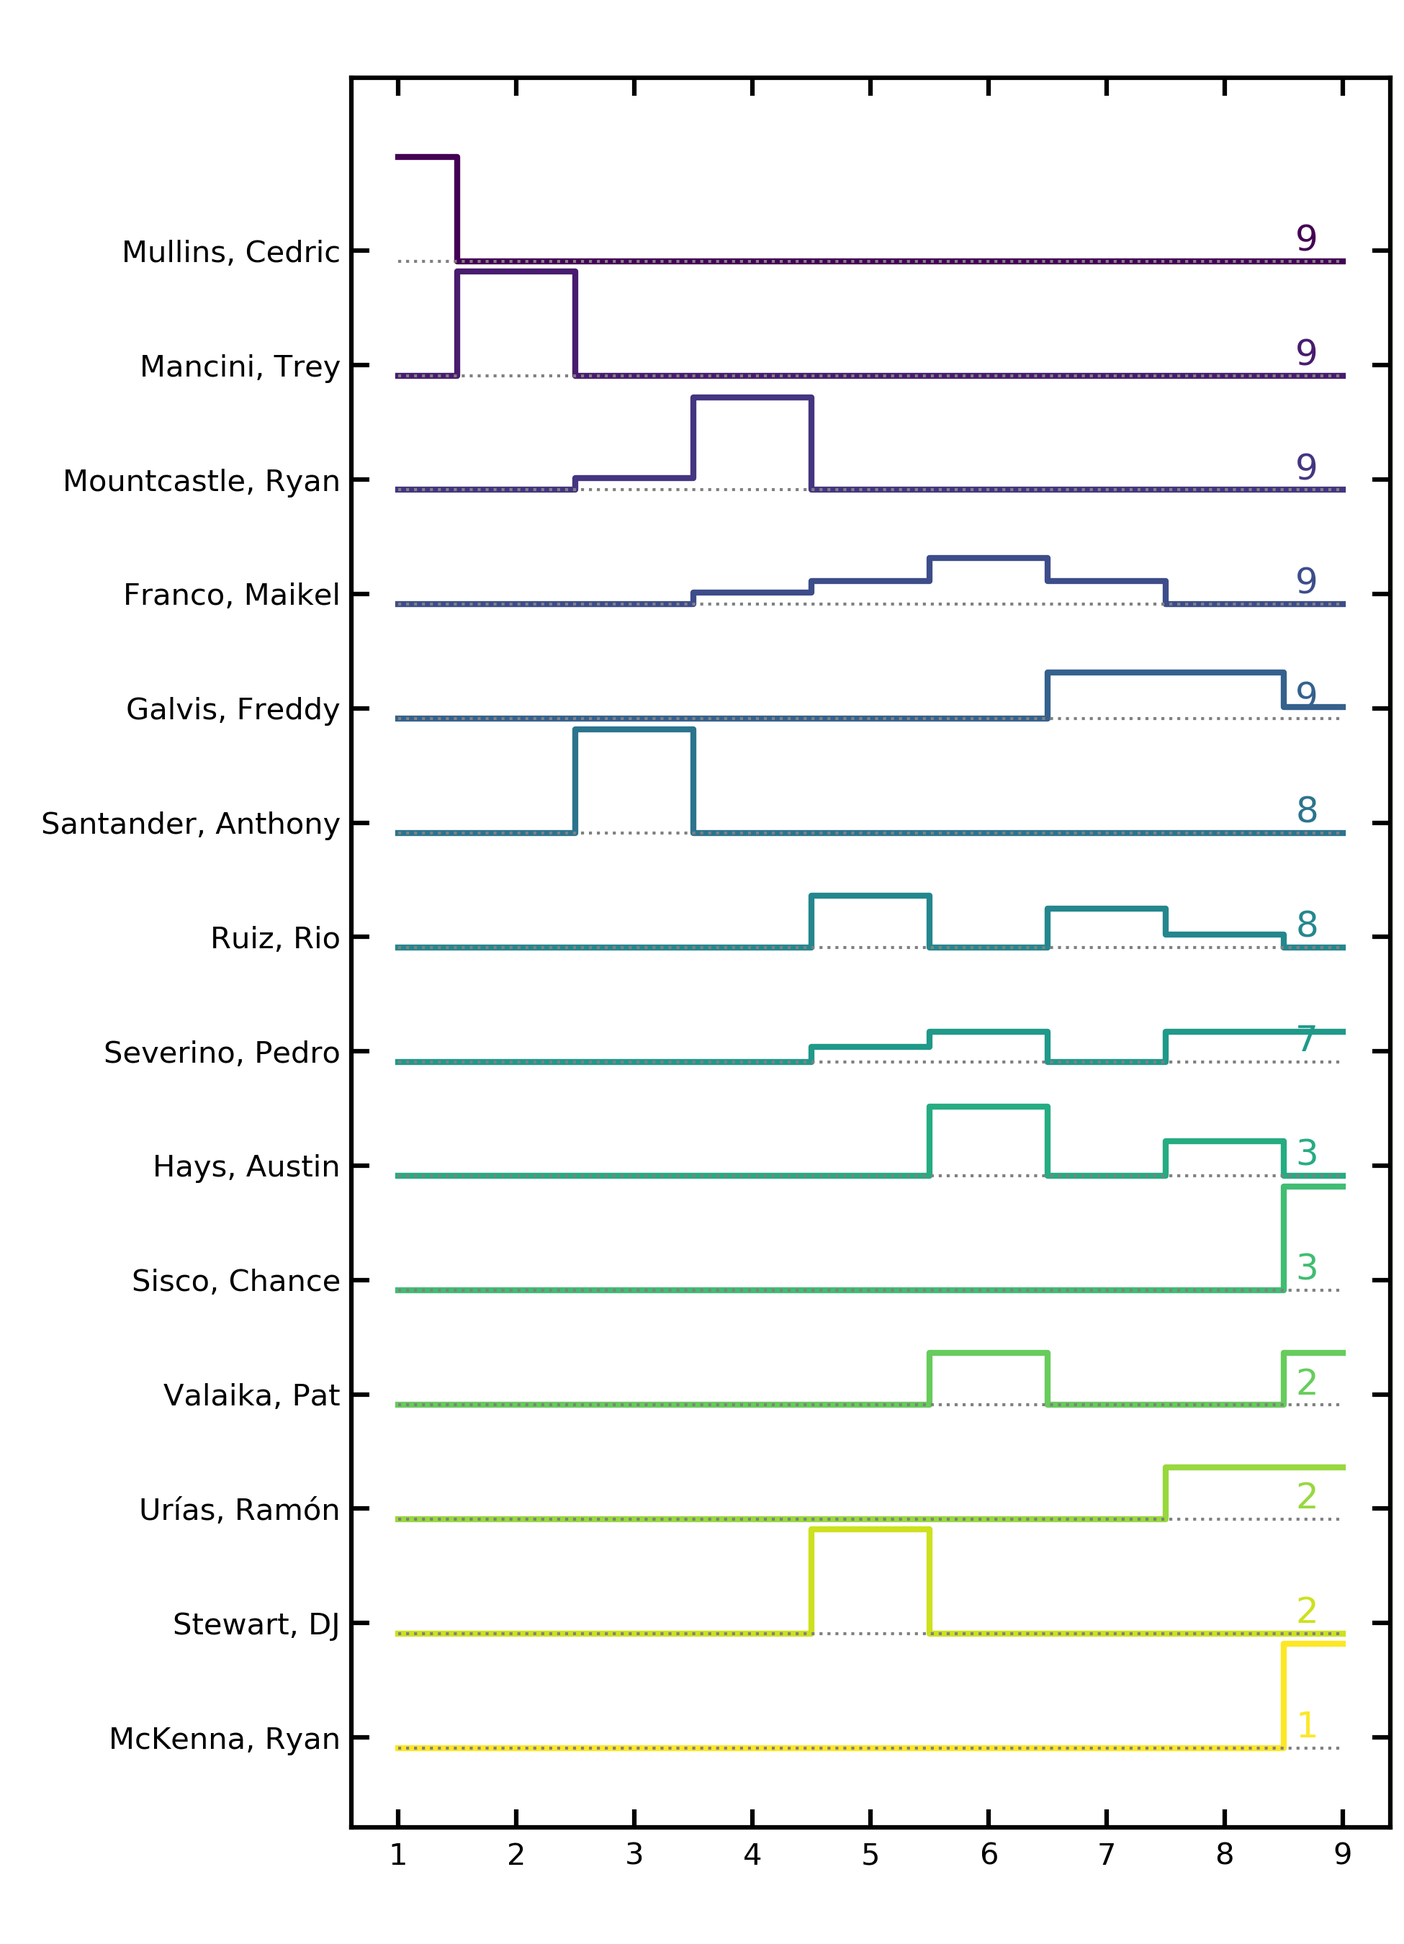
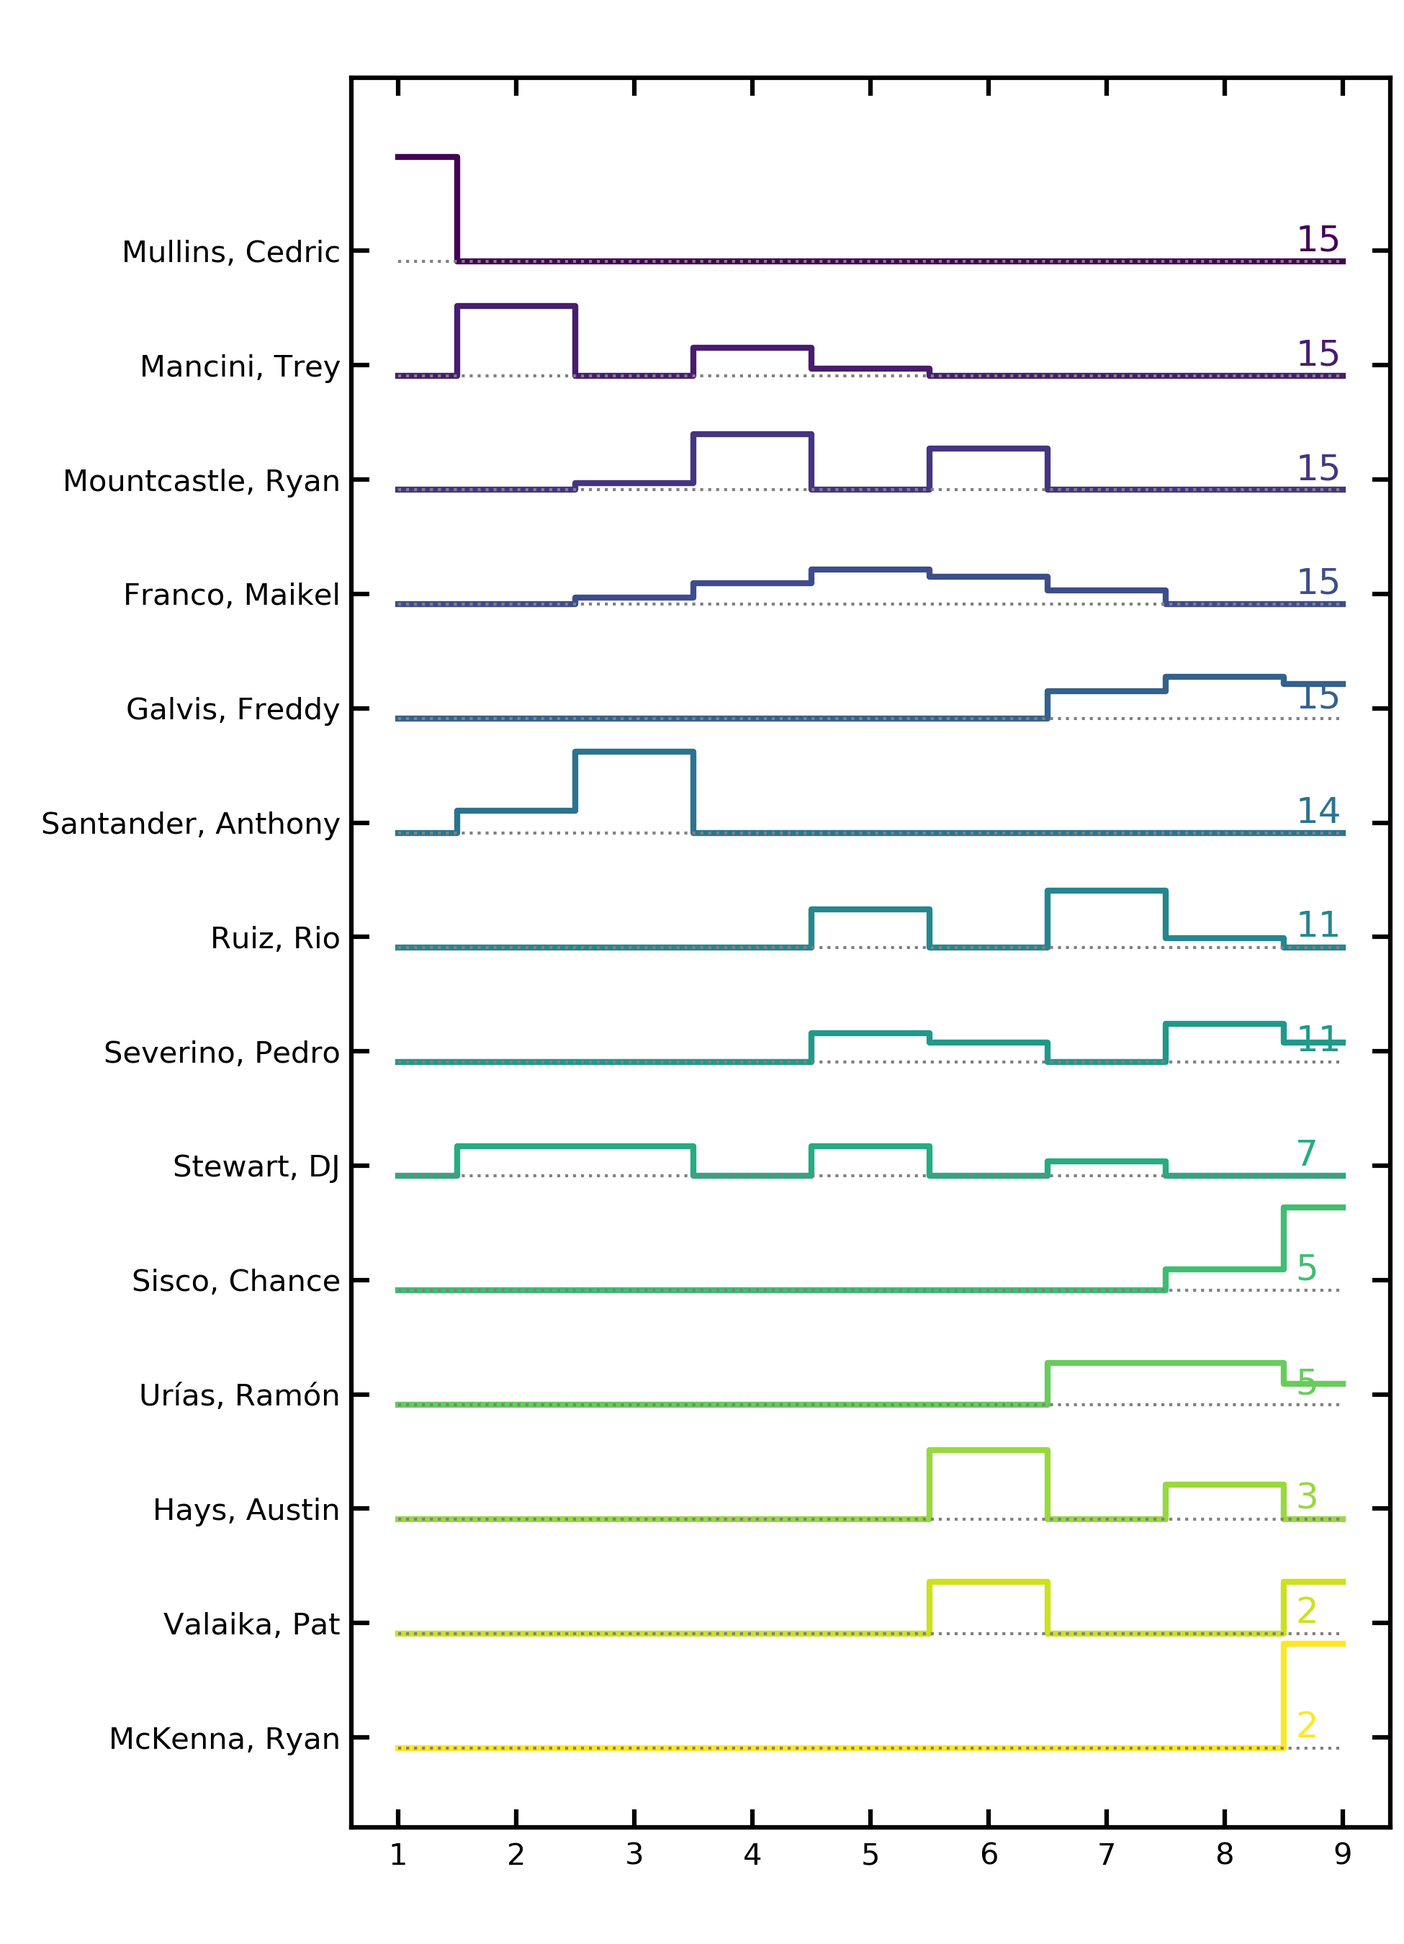
weekly lineup update

diff --git a/Lineups/lineup2021.html b/Lineups/lineup2021.html
@@ -12,36 +12,36 @@
   <p>For each team, what is the "typical" 2021 lineup?</p>
 <table id="customers">
 <tr><th>Team</th><th>1st</th><th>2nd</th><th>3rd</th><th>4th</th><th>5th</th><th>6th</th><th>7th</th><th>8th</th><th>9th</th><th>Similarity</th><th>First Appeared</th></tr>
-<tr><td><a href="figures/2021LAAorder.png">LAA</a></td><td>Fletcher, David</td><td>Ohtani, Shohei</td><td>Trout, Mike</td><td>Rendon, Anthony</td><td>Walsh, Jared</td><td>Upton, Justin</td><td>Iglesias, José</td><td>Suzuki, Kurt</td><td>Fowler, Dexter</td><td>5.15</td><td>3</td></tr>
-<tr><td><a href="figures/2021HOUorder.png">HOU</a></td><td>Altuve, Jose</td><td>Brantley, Michael</td><td>Bregman, Alex</td><td>Alvarez, Yordan</td><td>Correa, Carlos</td><td>Gurriel, Yuli</td><td>Tucker, Kyle</td><td>Straw, Myles</td><td>Maldonado, Martín</td><td>4.8</td><td>10</td></tr>
-<tr><td><a href="figures/2021OAKorder.png">OAK</a></td><td>Canha, Mark</td><td>Laureano, Ramón</td><td>Lowrie, Jed</td><td>Olson, Matt</td><td>Chapman, Matt</td><td>Piscotty, Stephen</td><td>Brown, Seth</td><td>Andrus, Elvis</td><td>Garcia, Aramis</td><td>2.91</td><td>9</td></tr>
-<tr><td><a href="figures/2021TORorder.png">TOR</a></td><td>Semien, Marcus</td><td>Biggio, Cavan</td><td>Bichette, Bo</td><td>Hernández, Teoscar</td><td>Guerrero Jr., Vladimir</td><td>Gurriel Jr., Lourdes</td><td>Tellez, Rowdy</td><td>Grichuk, Randal</td><td>Jansen, Danny</td><td>4.6</td><td>1</td></tr>
-<tr><td><a href="figures/2021ATLorder.png">ATL</a></td><td>Acuña Jr., Ronald</td><td>Albies, Ozzie</td><td>Freeman, Freddie</td><td>Ozuna, Marcell</td><td>d'Arnaud, Travis</td><td>Swanson, Dansby</td><td>Riley, Austin</td><td>Pache, Cristian</td><td>Anderson, Ian</td><td>5.7</td><td>3</td></tr>
-<tr><td><a href="figures/2021MILorder.png">MIL</a></td><td>Wong, Kolten</td><td>Hiura, Keston</td><td>Yelich, Christian</td><td>García, Avisaíl</td><td>Bradley Jr., Jackie</td><td>Urías, Luis</td><td>Narváez, Omar</td><td>Arcia, Orlando</td><td>Anderson, Brett</td><td>2.85</td><td>4</td></tr>
-<tr><td><a href="figures/2021STLorder.png">STL</a></td><td>Edman, Tommy</td><td>Goldschmidt, Paul</td><td>Arenado, Nolan</td><td>DeJong, Paul</td><td>O'Neill, Tyler</td><td>Molina, Yadier</td><td>Carlson, Dylan</td><td>Williams, Justin</td><td>Flaherty, Jack</td><td>4.3</td><td>1</td></tr>
-<tr><td><a href="figures/2021CHCorder.png">CHC</a></td><td>Happ, Ian</td><td>Contreras, Willson</td><td>Rizzo, Anthony</td><td>Bryant, Kris</td><td>Pederson, Joc</td><td>Báez, Javier</td><td>Heyward, Jason</td><td>Bote, David</td><td>Hendricks, Kyle</td><td>5.1</td><td>1</td></tr>
-<tr><td><a href="figures/2021ARIorder.png">ARI</a></td><td>Rojas, Josh</td><td>Marte, Ketel</td><td>Walker, Christian</td><td>Peralta, David</td><td>Cabrera, Asdrúbal</td><td>Escobar, Eduardo</td><td>Smith, Pavin</td><td>Vogt, Stephen</td><td>Bumgarner, Madison</td><td>3.45</td><td>1</td></tr>
-<tr><td><a href="figures/2021LADorder.png">LAD</a></td><td>Betts, Mookie</td><td>Seager, Corey</td><td>Turner, Justin</td><td>Bellinger, Cody</td><td>Muncy, Max</td><td>Taylor, Chris</td><td>Lux, Gavin</td><td>Barnes, Austin</td><td>Kershaw, Clayton</td><td>2.6</td><td>1</td></tr>
-<tr><td><a href="figures/2021SForder.png">SF</a></td><td>Slater, Austin</td><td>Yastrzemski, Mike</td><td>Solano, Donovan</td><td>Longoria, Evan</td><td>Ruf, Darin</td><td>Flores, Wilmer</td><td>Posey, Buster</td><td>Crawford, Brandon</td><td>Dubón, Mauricio</td><td>2.3</td><td>2</td></tr>
-<tr><td><a href="figures/2021CLEorder.png">CLE</a></td><td>Luplow, Jordan</td><td>Hernandez, Cesar</td><td>Ramírez, José</td><td>Rosario, Eddie</td><td>Reyes, Franmil</td><td>Naylor, Josh</td><td>Chang, Yu</td><td>Pérez, Roberto</td><td>Giménez, Andrés</td><td>5.11</td><td>1</td></tr>
-<tr><td><a href="figures/2021SEAorder.png">SEA</a></td><td>Haniger, Mitch</td><td>France, Ty</td><td>Seager, Kyle</td><td>White, Evan</td><td>Trammell, Taylor</td><td>Moore, Dylan</td><td>Fraley, Jake</td><td>Torrens, Luis</td><td>Crawford, J.P.</td><td>4.78</td><td>2</td></tr>
-<tr><td><a href="figures/2021MIAorder.png">MIA</a></td><td>Dickerson, Corey</td><td>Marte, Starling</td><td>Aguilar, Jesús</td><td>Cooper, Garrett</td><td>Anderson, Brian</td><td>Chisholm Jr., Jazz</td><td>Berti, Jon</td><td>Wallach, Chad</td><td>López, Pablo</td><td>3.22</td><td>6</td></tr>
-<tr><td><a href="figures/2021NYMorder.png">NYM</a></td><td>Nimmo, Brandon</td><td>Lindor, Francisco</td><td>Conforto, Michael</td><td>Alonso, Pete</td><td>Smith, Dominic</td><td>Villar, Jonathan</td><td>McNeil, Jeff</td><td>McCann, James</td><td>Walker, Taijuan</td><td>4.2</td><td>4</td></tr>
-<tr><td><a href="figures/2021WSHorder.png">WSH</a></td><td>Robles, Victor</td><td>Turner, Trea</td><td>Soto, Juan</td><td>Zimmerman, Ryan</td><td>Castro, Starlin</td><td>Pérez, Hernán</td><td>Stevenson, Andrew</td><td>Lucroy, Jonathan</td><td>Scherzer, Max</td><td>3.86</td><td>1</td></tr>
-<tr><td><a href="figures/2021BALorder.png">BAL</a></td><td>Mullins, Cedric</td><td>Mancini, Trey</td><td>Santander, Anthony</td><td>Mountcastle, Ryan</td><td>Ruiz, Rio</td><td>Franco, Maikel</td><td>Galvis, Freddy</td><td>Severino, Pedro</td><td>Sisco, Chance</td><td>4.33</td><td>5</td></tr>
-<tr><td><a href="figures/2021SDorder.png">SD</a></td><td>Grisham, Trent</td><td>Profar, Jurickson</td><td>Machado, Manny</td><td>Hosmer, Eric</td><td>Myers, Wil</td><td>Cronenworth, Jake</td><td>Pham, Tommy</td><td>Caratini, Victor</td><td>Kim, Ha-Seong</td><td>3.0</td><td>10</td></tr>
-<tr><td><a href="figures/2021PHIorder.png">PHI</a></td><td>McCutchen, Andrew</td><td>Hoskins, Rhys</td><td>Harper, Bryce</td><td>Realmuto, J.T.</td><td>Bohm, Alec</td><td>Gregorius, Didi</td><td>Segura, Jean</td><td>Haseley, Adam</td><td>Nola, Aaron</td><td>4.89</td><td>1</td></tr>
-<tr><td><a href="figures/2021PITorder.png">PIT</a></td><td>Frazier, Adam</td><td>Evans, Phillip</td><td>Reynolds, Bryan</td><td>Moran, Colin</td><td>González, Erik</td><td>Polanco, Gregory</td><td>Stallings, Jacob</td><td>Fowler, Dustin</td><td>Brubaker, JT</td><td>4.3</td><td>4</td></tr>
-<tr><td><a href="figures/2021TEXorder.png">TEX</a></td><td>Kiner-Falefa, Isiah</td><td>Dahl, David</td><td>Gallo, Joey</td><td>Lowe, Nate</td><td>Solak, Nick</td><td>Guzmán, Ronald</td><td>Holt, Brock</td><td>Heim, Jonah</td><td>Taveras, Leody</td><td>3.8</td><td>3</td></tr>
-<tr><td><a href="figures/2021TBorder.png">TB</a></td><td>Tsutsugo, Yoshi</td><td>Meadows, Austin</td><td>Arozarena, Randy</td><td>Lowe, Brandon</td><td>Díaz, Yandy</td><td>Wendle, Joey</td><td>Adames, Willy</td><td>Phillips, Brett</td><td>Zunino, Mike</td><td>3.45</td><td>7</td></tr>
-<tr><td><a href="figures/2021BOSorder.png">BOS</a></td><td>Hernández, Enrique</td><td>Verdugo, Alex</td><td>Martinez, J.D.</td><td>Bogaerts, Xander</td><td>Devers, Rafael</td><td>Vázquez, Christian</td><td>Gonzalez, Marwin</td><td>Dalbec, Bobby</td><td>Cordero, Franchy</td><td>3.78</td><td>9</td></tr>
-<tr><td><a href="figures/2021CINorder.png">CIN</a></td><td>Naquin, Tyler</td><td>Castellanos, Nick</td><td>Votto, Joey</td><td>Suárez, Eugenio</td><td>Moustakas, Mike</td><td>Senzel, Nick</td><td>India, Jonathan</td><td>Barnhart, Tucker</td><td>De León, José</td><td>5.5</td><td>4</td></tr>
-<tr><td><a href="figures/2021COLorder.png">COL</a></td><td>Tapia, Raimel</td><td>Hampson, Garrett</td><td>Story, Trevor</td><td>Blackmon, Charlie</td><td>Cron, C.J.</td><td>McMahon, Ryan</td><td>Hilliard, Sam</td><td>Nuñez, Dom</td><td>Márquez, Germán</td><td>3.45</td><td>5</td></tr>
-<tr><td><a href="figures/2021KCorder.png">KC</a></td><td>Merrifield, Whit</td><td>Benintendi, Andrew</td><td>Santana, Carlos</td><td>Perez, Salvador</td><td>Soler, Jorge</td><td>Dozier, Hunter</td><td>Isbel, Kyle</td><td>Taylor, Michael A.</td><td>Lopez, Nicky</td><td>6.0</td><td>1</td></tr>
-<tr><td><a href="figures/2021DETorder.png">DET</a></td><td>Grossman, Robbie</td><td>Candelario, Jeimer</td><td>Castro, Willi</td><td>Cabrera, Miguel</td><td>Schoop, Jonathan</td><td>Mazara, Nomar</td><td>Ramos, Wilson</td><td>Goodrum, Niko</td><td>Jones, JaCoby</td><td>2.0</td><td>2</td></tr>
-<tr><td><a href="figures/2021MINorder.png">MIN</a></td><td>Arraez, Luis</td><td>Polanco, Jorge</td><td>Cruz, Nelson</td><td>Kepler, Max</td><td>Rooker, Brent</td><td>Cave, Jake</td><td>Sanó, Miguel</td><td>Astudillo, Willians</td><td>Jeffers, Ryan</td><td>2.22</td><td>5</td></tr>
-<tr><td><a href="figures/2021CWSorder.png">CWS</a></td><td>Eaton, Adam</td><td>Robert, Luis</td><td>Abreu, José</td><td>Moncada, Yoán</td><td>Mercedes, Yermín</td><td>Grandal, Yasmani</td><td>Williams, Nick</td><td>Madrigal, Nick</td><td>Mendick, Danny</td><td>3.25</td><td>8</td></tr>
-<tr><td><a href="figures/2021NYYorder.png">NYY</a></td><td>LeMahieu, DJ</td><td>Judge, Aaron</td><td>Hicks, Aaron</td><td>Stanton, Giancarlo</td><td>Torres, Gleyber</td><td>Bruce, Jay</td><td>Sánchez, Gary</td><td>Urshela, Gio</td><td>Frazier, Clint</td><td>3.75</td><td>2</td></tr>
+<tr><td><a href="figures/2021LAAorder.png">LAA</a></td><td>Fletcher, David</td><td>Ohtani, Shohei</td><td>Trout, Mike</td><td>Rendon, Anthony</td><td>Walsh, Jared</td><td>Upton, Justin</td><td>Iglesias, José</td><td>Suzuki, Kurt</td><td>Fowler, Dexter</td><td>4.62</td><td>3</td></tr>
+<tr><td><a href="figures/2021HOUorder.png">HOU</a></td><td>Altuve, Jose</td><td>Brantley, Michael</td><td>Bregman, Alex</td><td>Alvarez, Yordan</td><td>Correa, Carlos</td><td>Gurriel, Yuli</td><td>Tucker, Kyle</td><td>Straw, Myles</td><td>Maldonado, Martín</td><td>3.54</td><td>10</td></tr>
+<tr><td><a href="figures/2021OAKorder.png">OAK</a></td><td>Canha, Mark</td><td>Laureano, Ramón</td><td>Lowrie, Jed</td><td>Olson, Matt</td><td>Chapman, Matt</td><td>Piscotty, Stephen</td><td>Brown, Seth</td><td>Andrus, Elvis</td><td>Garcia, Aramis</td><td>2.8</td><td>9</td></tr>
+<tr><td><a href="figures/2021TORorder.png">TOR</a></td><td>Semien, Marcus</td><td>Biggio, Cavan</td><td>Bichette, Bo</td><td>Hernández, Teoscar</td><td>Guerrero Jr., Vladimir</td><td>Gurriel Jr., Lourdes</td><td>Tellez, Rowdy</td><td>Grichuk, Randal</td><td>Jansen, Danny</td><td>3.67</td><td>1</td></tr>
+<tr><td><a href="figures/2021ATLorder.png">ATL</a></td><td>Acuña Jr., Ronald</td><td>Albies, Ozzie</td><td>Freeman, Freddie</td><td>Ozuna, Marcell</td><td>d'Arnaud, Travis</td><td>Swanson, Dansby</td><td>Riley, Austin</td><td>Pache, Cristian</td><td>Anderson, Ian</td><td>3.27</td><td>3</td></tr>
+<tr><td><a href="figures/2021MILorder.png">MIL</a></td><td>Wong, Kolten</td><td>Hiura, Keston</td><td>Yelich, Christian</td><td>García, Avisaíl</td><td>Bradley Jr., Jackie</td><td>Urías, Luis</td><td>Narváez, Omar</td><td>Arcia, Orlando</td><td>Anderson, Brett</td><td>2.43</td><td>4</td></tr>
+<tr><td><a href="figures/2021STLorder.png">STL</a></td><td>Edman, Tommy</td><td>Goldschmidt, Paul</td><td>Arenado, Nolan</td><td>DeJong, Paul</td><td>O'Neill, Tyler</td><td>Molina, Yadier</td><td>Carlson, Dylan</td><td>Williams, Justin</td><td>Wainwright, Adam</td><td>4.21</td><td>2</td></tr>
+<tr><td><a href="figures/2021CHCorder.png">CHC</a></td><td>Happ, Ian</td><td>Contreras, Willson</td><td>Rizzo, Anthony</td><td>Bryant, Kris</td><td>Pederson, Joc</td><td>Báez, Javier</td><td>Heyward, Jason</td><td>Bote, David</td><td>Davies, Zach</td><td>5.5</td><td>8</td></tr>
+<tr><td><a href="figures/2021ARIorder.png">ARI</a></td><td>Locastro, Tim</td><td>Calhoun, Kole</td><td>Walker, Christian</td><td>Peralta, David</td><td>Cabrera, Asdrúbal</td><td>Escobar, Eduardo</td><td>Ahmed, Nick</td><td>Vogt, Stephen</td><td>Smith, Riley</td><td>3.0</td><td>9</td></tr>
+<tr><td><a href="figures/2021LADorder.png">LAD</a></td><td>Betts, Mookie</td><td>Seager, Corey</td><td>Turner, Justin</td><td>Bellinger, Cody</td><td>Muncy, Max</td><td>Taylor, Chris</td><td>Lux, Gavin</td><td>Barnes, Austin</td><td>Kershaw, Clayton</td><td>2.8</td><td>1</td></tr>
+<tr><td><a href="figures/2021SForder.png">SF</a></td><td>Slater, Austin</td><td>Yastrzemski, Mike</td><td>Solano, Donovan</td><td>Longoria, Evan</td><td>Ruf, Darin</td><td>Flores, Wilmer</td><td>Posey, Buster</td><td>Crawford, Brandon</td><td>Dubón, Mauricio</td><td>2.32</td><td>2</td></tr>
+<tr><td><a href="figures/2021CLEorder.png">CLE</a></td><td>Luplow, Jordan</td><td>Hernandez, Cesar</td><td>Ramírez, José</td><td>Rosario, Eddie</td><td>Reyes, Franmil</td><td>Naylor, Josh</td><td>Chang, Yu</td><td>Pérez, Roberto</td><td>Giménez, Andrés</td><td>4.89</td><td>1</td></tr>
+<tr><td><a href="figures/2021SEAorder.png">SEA</a></td><td>Haniger, Mitch</td><td>France, Ty</td><td>Seager, Kyle</td><td>White, Evan</td><td>Moore, Dylan</td><td>Murphy, Tom</td><td>Fraley, Jake</td><td>Haggerty, Sam</td><td>Crawford, J.P.</td><td>4.21</td><td>4</td></tr>
+<tr><td><a href="figures/2021MIAorder.png">MIA</a></td><td>Dickerson, Corey</td><td>Marte, Starling</td><td>Aguilar, Jesús</td><td>Cooper, Garrett</td><td>Anderson, Brian</td><td>Chisholm Jr., Jazz</td><td>Rojas, Miguel</td><td>Wallach, Chad</td><td>Rogers, Trevor</td><td>3.93</td><td>8</td></tr>
+<tr><td><a href="figures/2021NYMorder.png">NYM</a></td><td>Nimmo, Brandon</td><td>Lindor, Francisco</td><td>Conforto, Michael</td><td>Alonso, Pete</td><td>Smith, Dominic</td><td>Villar, Jonathan</td><td>McCann, James</td><td>Guillorme, Luis</td><td>Peterson, David</td><td>3.9</td><td>3</td></tr>
+<tr><td><a href="figures/2021WSHorder.png">WSH</a></td><td>Robles, Victor</td><td>Turner, Trea</td><td>Soto, Juan</td><td>Zimmerman, Ryan</td><td>Castro, Starlin</td><td>Pérez, Hernán</td><td>Stevenson, Andrew</td><td>Lucroy, Jonathan</td><td>Scherzer, Max</td><td>2.54</td><td>1</td></tr>
+<tr><td><a href="figures/2021BALorder.png">BAL</a></td><td>Mullins, Cedric</td><td>Mancini, Trey</td><td>Santander, Anthony</td><td>Mountcastle, Ryan</td><td>Stewart, DJ</td><td>Franco, Maikel</td><td>Ruiz, Rio</td><td>Galvis, Freddy</td><td>Sisco, Chance</td><td>3.33</td><td>8</td></tr>
+<tr><td><a href="figures/2021SDorder.png">SD</a></td><td>Grisham, Trent</td><td>Profar, Jurickson</td><td>Machado, Manny</td><td>Hosmer, Eric</td><td>Myers, Wil</td><td>Cronenworth, Jake</td><td>Pham, Tommy</td><td>Caratini, Victor</td><td>Kim, Ha-Seong</td><td>2.53</td><td>10</td></tr>
+<tr><td><a href="figures/2021PHIorder.png">PHI</a></td><td>McCutchen, Andrew</td><td>Hoskins, Rhys</td><td>Harper, Bryce</td><td>Realmuto, J.T.</td><td>Bohm, Alec</td><td>Gregorius, Didi</td><td>Segura, Jean</td><td>Haseley, Adam</td><td>Nola, Aaron</td><td>4.64</td><td>1</td></tr>
+<tr><td><a href="figures/2021PITorder.png">PIT</a></td><td>Frazier, Adam</td><td>Evans, Phillip</td><td>Reynolds, Bryan</td><td>Moran, Colin</td><td>González, Erik</td><td>Polanco, Gregory</td><td>Stallings, Jacob</td><td>Fowler, Dustin</td><td>Brubaker, JT</td><td>4.07</td><td>4</td></tr>
+<tr><td><a href="figures/2021TEXorder.png">TEX</a></td><td>Kiner-Falefa, Isiah</td><td>Dahl, David</td><td>Gallo, Joey</td><td>Solak, Nick</td><td>Lowe, Nate</td><td>Trevino, Jose</td><td>Holt, Brock</td><td>White, Eli</td><td>Culberson, Charlie</td><td>3.4</td><td>4</td></tr>
+<tr><td><a href="figures/2021TBorder.png">TB</a></td><td>Tsutsugo, Yoshi</td><td>Meadows, Austin</td><td>Arozarena, Randy</td><td>Lowe, Brandon</td><td>Díaz, Yandy</td><td>Wendle, Joey</td><td>Adames, Willy</td><td>Phillips, Brett</td><td>Zunino, Mike</td><td>2.33</td><td>7</td></tr>
+<tr><td><a href="figures/2021BOSorder.png">BOS</a></td><td>Hernández, Enrique</td><td>Verdugo, Alex</td><td>Martinez, J.D.</td><td>Bogaerts, Xander</td><td>Devers, Rafael</td><td>Vázquez, Christian</td><td>Gonzalez, Marwin</td><td>Dalbec, Bobby</td><td>Cordero, Franchy</td><td>4.29</td><td>9</td></tr>
+<tr><td><a href="figures/2021CINorder.png">CIN</a></td><td>Winker, Jesse</td><td>Castellanos, Nick</td><td>Votto, Joey</td><td>Suárez, Eugenio</td><td>Moustakas, Mike</td><td>Senzel, Nick</td><td>India, Jonathan</td><td>Barnhart, Tucker</td><td>Castillo, Luis</td><td>5.31</td><td>1</td></tr>
+<tr><td><a href="figures/2021COLorder.png">COL</a></td><td>Hampson, Garrett</td><td>McMahon, Ryan</td><td>Story, Trevor</td><td>Blackmon, Charlie</td><td>Cron, C.J.</td><td>Tapia, Raimel</td><td>Fuentes, Josh</td><td>Nuñez, Dom</td><td>Gomber, Austin</td><td>3.6</td><td>8</td></tr>
+<tr><td><a href="figures/2021KCorder.png">KC</a></td><td>Merrifield, Whit</td><td>Benintendi, Andrew</td><td>Perez, Salvador</td><td>Santana, Carlos</td><td>Soler, Jorge</td><td>Taylor, Michael A.</td><td>Isbel, Kyle</td><td>Alberto, Hanser</td><td>Lopez, Nicky</td><td>5.31</td><td>8</td></tr>
+<tr><td><a href="figures/2021DETorder.png">DET</a></td><td>Grossman, Robbie</td><td>Candelario, Jeimer</td><td>Castro, Willi</td><td>Cabrera, Miguel</td><td>Schoop, Jonathan</td><td>Mazara, Nomar</td><td>Ramos, Wilson</td><td>Goodrum, Niko</td><td>Jones, JaCoby</td><td>2.2</td><td>2</td></tr>
+<tr><td><a href="figures/2021MINorder.png">MIN</a></td><td>Arraez, Luis</td><td>Polanco, Jorge</td><td>Cruz, Nelson</td><td>Kepler, Max</td><td>Astudillo, Willians</td><td>Sanó, Miguel</td><td>Cave, Jake</td><td>Jeffers, Ryan</td><td>Riddle, JT</td><td>2.07</td><td>13</td></tr>
+<tr><td><a href="figures/2021CWSorder.png">CWS</a></td><td>Anderson, Tim</td><td>Eaton, Adam</td><td>Abreu, José</td><td>Moncada, Yoán</td><td>Mercedes, Yermín</td><td>Grandal, Yasmani</td><td>Robert, Luis</td><td>Vaughn, Andrew</td><td>Madrigal, Nick</td><td>3.36</td><td>13</td></tr>
+<tr><td><a href="figures/2021NYYorder.png">NYY</a></td><td>LeMahieu, DJ</td><td>Judge, Aaron</td><td>Hicks, Aaron</td><td>Stanton, Giancarlo</td><td>Torres, Gleyber</td><td>Bruce, Jay</td><td>Sánchez, Gary</td><td>Urshela, Gio</td><td>Frazier, Clint</td><td>3.29</td><td>2</td></tr>
 </table>
 </body>
 </html>
